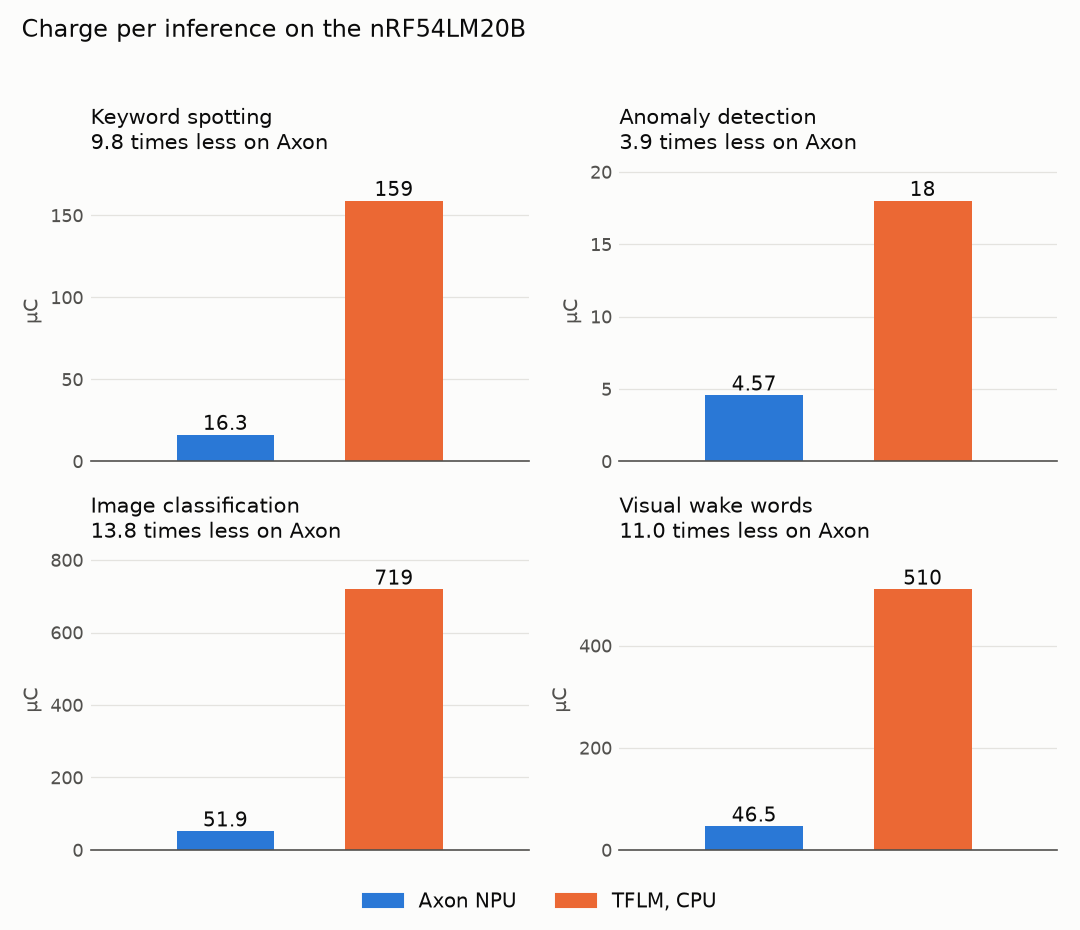
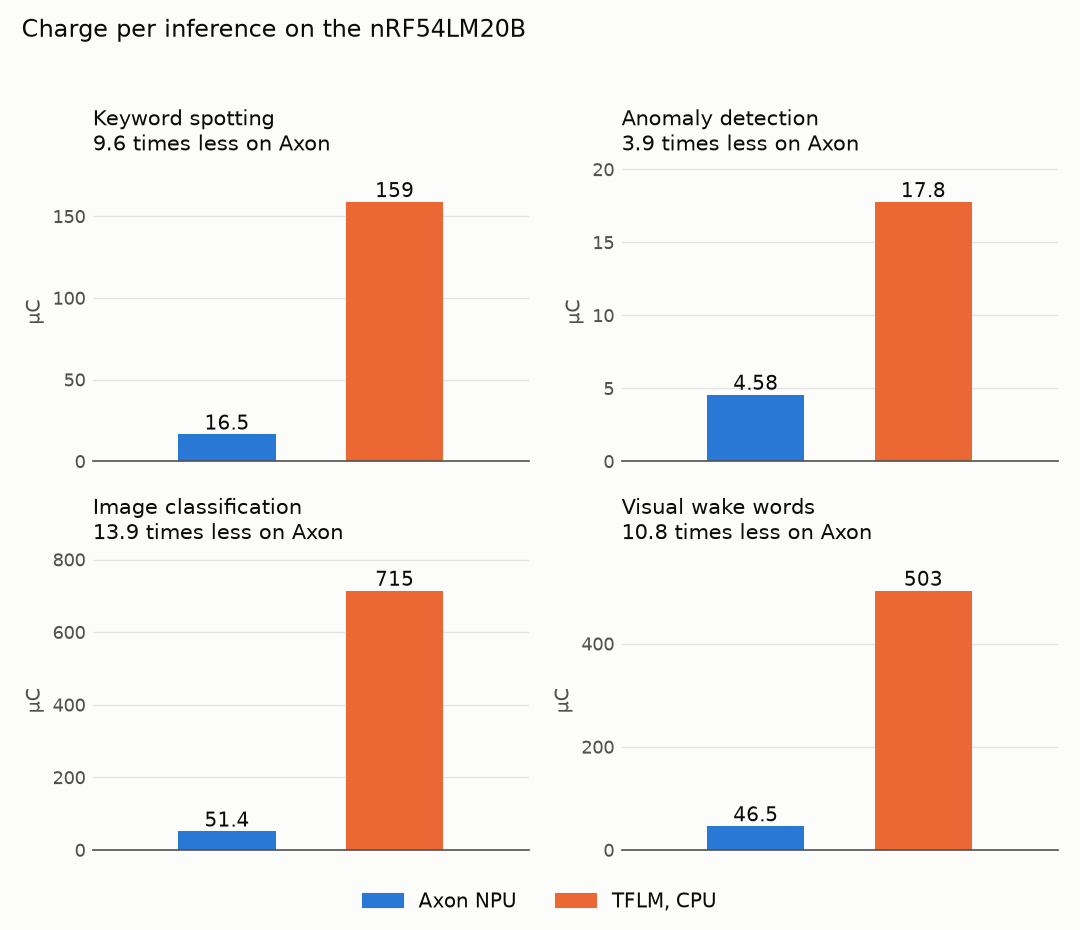
bench: captures redone on the reviewed firmware

diff --git a/bench/README.md b/bench/README.md
@@ -18,9 +18,6 @@ Measured on one dev kit with one PPK2. See [Limitations](#limitations) for what 
 
 ## Results
 
-The captures below predate two changes to the firmware: the input layout given to TFLM for image
-classification and visual wake words, and the output check. They are to be redone.
-
 Measured on one nRF54LM20 DK with one PPK2, in Ampere meter mode at the kit's current-measurement
 header, at 100,000 samples per second. The kit's supply voltage is set to 3.3 V in the
 [Board Configurator](https://docs.nordicsemi.com/bundle/nrf-connect-board-configurator/page/index.html)
@@ -28,14 +25,14 @@ app, and the captures are given `--vdd 3.3`. Each capture starts from a power cy
 
 | Model | Backend | Time | Mean current | Charge, median | Inferences per mAh | Charge, mean ± sd | Regions |
 |---|---|---:|---:|---:|---:|---:|---:|
-| Keyword spotting | Axon | 5.270 ms | 3,228 µA | 16.30 µC | 220,900 | 17.0 ± 1.8 µC | 207 |
-|  | TFLM | 68.854 ms | 2,309 µA | 158.97 µC | 22,600 | 158.98 ± 0.10 µC | 205 |
-| Anomaly detection | Axon | 1.362 ms | 3,382 µA | 4.57 µC | 787,700 | 4.61 ± 0.27 µC | 222 |
-|  | TFLM | 7.686 ms | 2,348 µA | 18.014 µC | 199,800 | 18.049 ± 0.096 µC | 423 |
-| Image classification | Axon | 18.868 ms | 2,757 µA | 51.93 µC | 69,300 | 52.02 ± 0.98 µC | 166 |
-|  | TFLM | 303.001 ms | 2,373 µA | 719.07 µC | 5,000 | 719.03 ± 0.36 µC | 69 |
-| Visual wake words | Axon | 16.451 ms | 2,823 µA | 46.48 µC | 77,500 | 46.43 ± 0.65 µC | 172 |
-|  | TFLM | 219.995 ms | 2,322 µA | 510.3 µC | 7,100 | 510.9 ± 1.0 µC | 90 |
+| Keyword spotting | Axon | 5.279 ms | 3,343 µA | 16.5 µC | 217,800 | 17.6 ± 2.1 µC | 207 |
+|  | TFLM | 68.988 ms | 2,303 µA | 158.859 µC | 22,700 | 158.867 ± 0.098 µC | 205 |
+| Anomaly detection | Axon | 1.366 ms | 3,403 µA | 4.58 µC | 786,700 | 4.65 ± 0.35 µC | 222 |
+|  | TFLM | 7.714 ms | 2,308 µA | 17.776 µC | 202,500 | 17.803 ± 0.074 µC | 422 |
+| Image classification | Axon | 18.897 ms | 2,725 µA | 51.44 µC | 70,000 | 51.49 ± 0.57 µC | 166 |
+|  | TFLM | 303.865 ms | 2,352 µA | 714.77 µC | 5,000 | 714.81 ± 0.33 µC | 69 |
+| Visual wake words | Axon | 16.465 ms | 2,822 µA | 46.53 µC | 77,400 | 46.46 ± 0.58 µC | 172 |
+|  | TFLM | 220.903 ms | 2,278 µA | 503.23 µC | 7,200 | 503.21 ± 0.23 µC | 90 |
 
 A region is one inference: the stretch where the marker is high. "mean ± sd" is the mean and the
 standard deviation of the charge over the regions of one capture.
@@ -46,10 +43,10 @@ not the sleep between two inferences or anything else the application does.
 
 | Model | Time, TFLM / Axon | Charge, TFLM / Axon |
 |---|---:|---:|
-| Keyword spotting | 13.1 | 9.8 |
+| Keyword spotting | 13.1 | 9.6 |
 | Anomaly detection | 5.6 | 3.9 |
-| Image classification | 16.1 | 13.8 |
-| Visual wake words | 13.4 | 11.0 |
+| Image classification | 16.1 | 13.9 |
+| Visual wake words | 13.4 | 10.8 |
 
 The charge ratio is that of the medians.
 
@@ -69,7 +66,7 @@ The current axis stops at 10 mA. Where samples leave it, the panel gives the pea
 a few samples at a wake-up and are the PPK2's wake-up bursts, described under
 [Measurement](#measurement).
 
-While it runs, the NPU raises the mean current of the chip by 0.4 to 1.0 mA over the CPU alone.
+While it runs, the NPU raises the mean current of the chip by 0.4 to 1.1 mA over the CPU alone.
 The inference is 5.6 to 16.1 times shorter, so the charge is lower.
 
 Between two inferences the firmware sleeps for 50 ms. The median current there is 1.44 to 1.49 µA
@@ -103,7 +100,16 @@ compares each output with the expected one. It stops raising the marker when a v
 more than 2 of 255 (`CONFIG_BENCH_TOLERANCE`), so a wrong inference is not measured. The `verify`
 build prints the largest difference of each inference.
 
-Axon is bit exact on the dev kit. TFLM is not: it rounds differently. To see by how much on the
+Largest difference on the dev kit, over the three test vectors:
+
+| Model | Axon | TFLM |
+|---|---:|---:|
+| Keyword spotting | 0 | 2 |
+| Anomaly detection | 0 | 2 |
+| Image classification | 0 | 1 |
+| Visual wake words | 0 | 0 |
+
+Axon is bit exact. TFLM is not: it rounds differently. To see by how much on the
 host, where TFLite runs the same `.tflite` on the same test vectors, run `just check`. It needs Docker
 and the models of `just compile`:
 
@@ -170,10 +176,10 @@ just measure-all                   # the eight captures, then the figures
 `just measure axon mlperf_kws 12` ends with the report:
 
 ```console
-captured 1200000 samples over 12.00 s (100012 Hz)
-capture: 1199018 samples, 11.99 s powered
-D0 infer               n=207   width     5.272 ms  avg   3262.61 µA  peak    16802 µA  charge    17.200 ± 2.020 µC (median 16.303)
-idle (no channel high) median      1.49 µA  mean     28.53 µA
+captured 1200000 samples over 12.00 s (100014 Hz)
+capture: 1198907 samples, 11.99 s powered
+D0 infer               n=207   width     5.279 ms  avg   3342.65 µA  peak    15346 µA  charge    17.646 ± 2.130 µC (median 16.530)
+idle (no channel high) median      1.49 µA  mean     30.28 µA
 ```
 
 To check the outputs over the UART, hold the power on in another terminal with

diff --git a/README.md b/README.md
@@ -9,7 +9,7 @@ The models are the four of [MLPerf Tiny](https://github.com/mlcommons/tiny). The
 
 ![Duration and charge of one inference of the four models, on the NPU and on the CPU](bench/results/overview.png)
 
-On the NPU an inference is 5.6 to 16.1 times shorter, and it draws 3.9 to 13.8 times less charge from the supply. See [bench/README.md](bench/README.md) for the measurement and its limits.
+On the NPU an inference is 5.6 to 16.1 times shorter, and it draws 3.9 to 13.9 times less charge from the supply. See [bench/README.md](bench/README.md) for the measurement and its limits.
 
 ## Requirements
 
